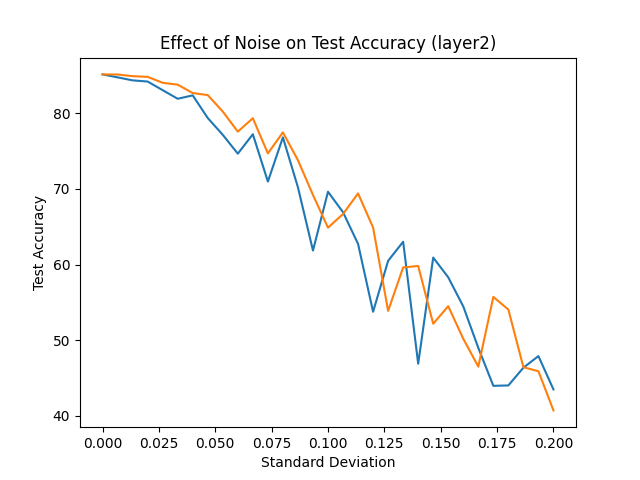
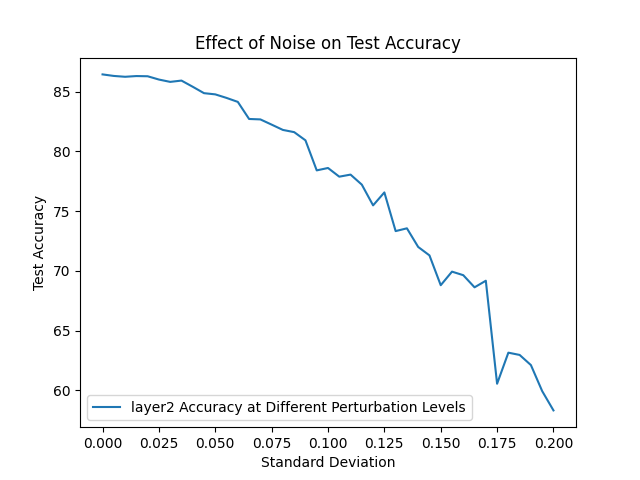
updated final images and average

diff --git a/noise_weight_analysis/FashionMNIST_Noise_brevitas.py b/noise_weight_analysis/FashionMNIST_Noise_brevitas.py
@@ -338,6 +338,9 @@ for s in range(len(sigma_vector)):
           ", Average Accuracy:", avg_accuracy, "%")
 
 
+# update number of perturbations
+num_perturbations = 20
+
 # Define layer names
 layer_names = ['layer1', 'layer2', 'layer3', 'layer4', 'layer5']
 
@@ -347,7 +350,7 @@ if not os.path.exists("noise_plots_brevitas"):
 plt.style.use('default')
 
 # Initialize the standard deviation values
-sigma_vector = np.linspace(0, 0.2, 31)
+sigma_vector = np.linspace(0, 0.2, 41)
 
 # Create a list to store the test accuracies for all layers
 all_test_accs = []
